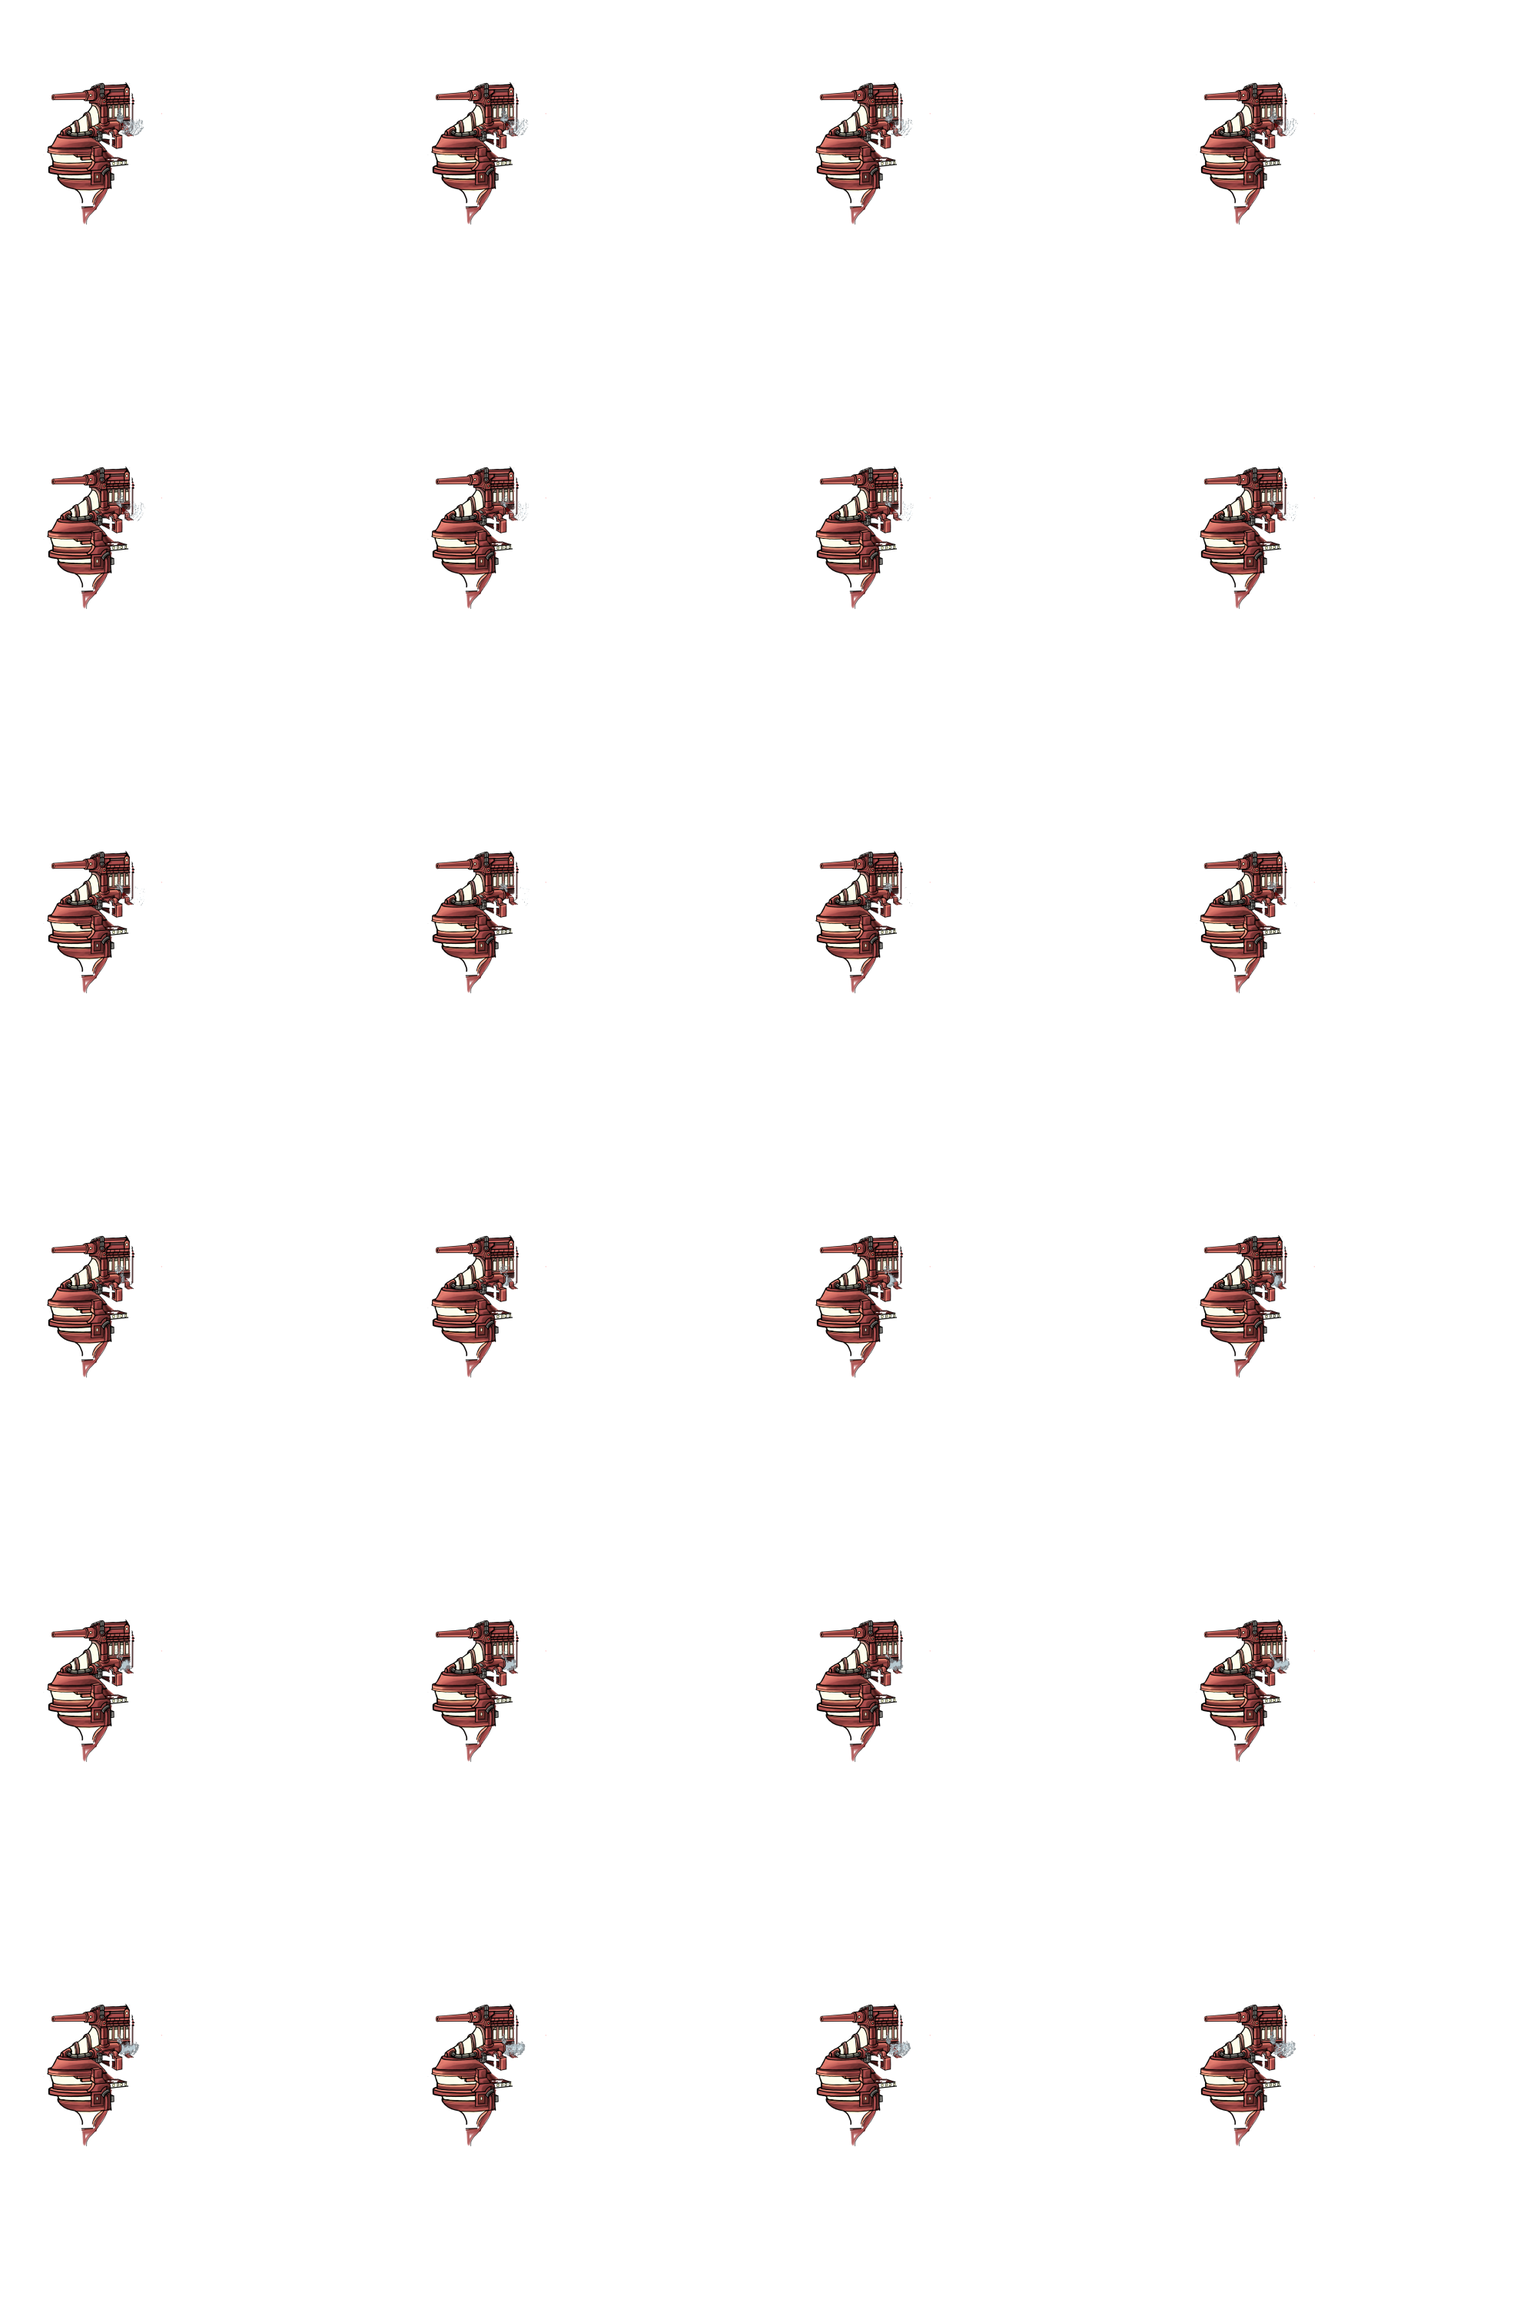
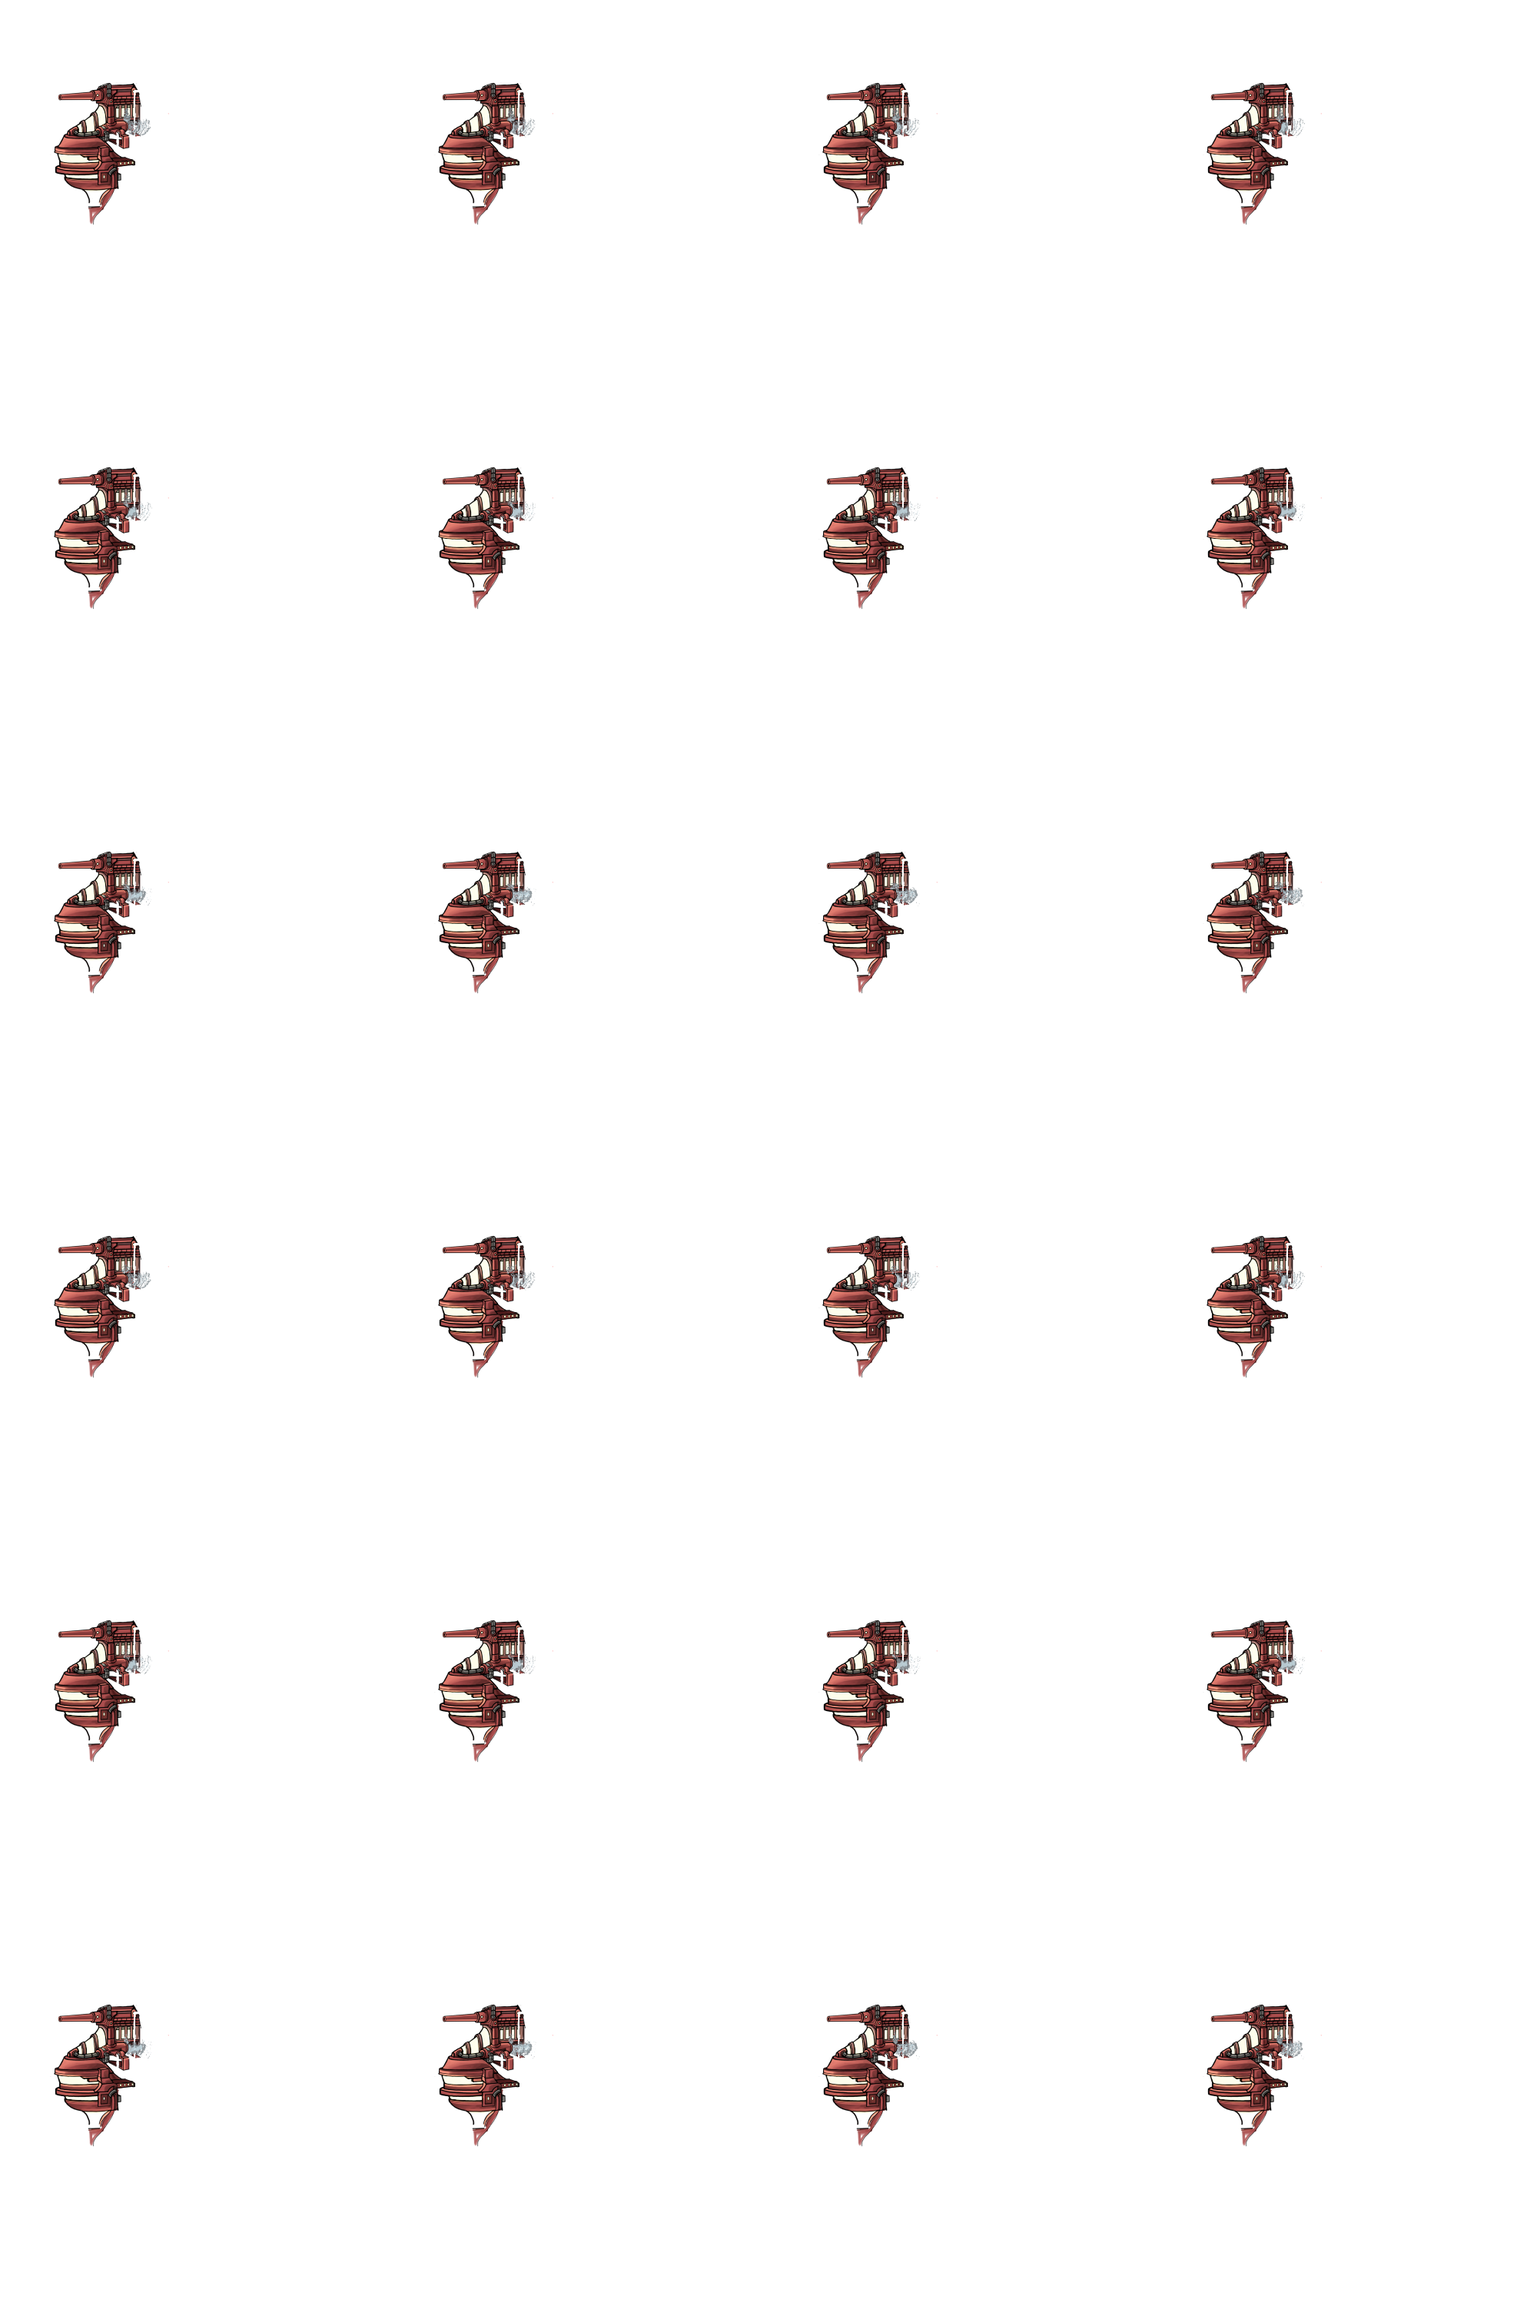
fix webGl

diff --git a/src/app/shared/user/user.service.ts b/src/app/shared/user/user.service.ts
@@ -73,7 +73,6 @@ export class UserService {
           (snapshot: any) => {
             this.FillUpgrade(snapshot);
           });
-
         this.db.object('users/' + auth.uid + '/event').valueChanges().subscribe(
           (snapshot: any) => {
             this.FillEvent(snapshot);
@@ -89,7 +88,7 @@ export class UserService {
   public LogOut() {
     this.userLoad = false;
     this.currentUser = null;
-    this.afAuth.auth.signOut().then(()=>{
+    this.afAuth.auth.signOut().then(() => {
       location.reload();
     });
   }
@@ -143,15 +142,14 @@ export class UserService {
   }
 
   FillSearch(snapshot) {
-
-    let resultTab = new Array<Asteroid>();
+    const resultTab = new Array<Asteroid>();
     if (snapshot.result != 0) {
       for (let i = 0; i < snapshot.result.length; i++) {
         resultTab.push(new Asteroid(snapshot.result[i].capacity, snapshot.result[i].capacity, snapshot.result[i].purity,
           snapshot.result[i].ore, snapshot.result[i].seed, snapshot.result[i].timeToGo));
       }
     }
-    this.currentUser.asteroidSearch = new SearchResult(resultTab, snapshot.timer,snapshot.start);
+    this.currentUser.asteroidSearch = new SearchResult(resultTab, snapshot.timer, snapshot.start);
     this.searchSubject.next(this.currentUser);
     this.incrementCounter();
   }
@@ -160,24 +158,30 @@ export class UserService {
     this.currentUser.event = snapshot;
     this.eventSubject.next(this.currentUser);
   }
-  
+
   FillUpgrade(snapshot) {
-    
-    this.currentUser.upgrades[UpgradeType.storage]=new UserUpgrade(
+
+    this.currentUser.upgrades[UpgradeType.storage] = new UserUpgrade(
       snapshot.storage.lvl,
       snapshot.storage.timer,
       snapshot.storage.start
     );
-    
-    this.currentUser.upgrades[UpgradeType.mineRate]=new UserUpgrade(
+
+    this.currentUser.upgrades[UpgradeType.mineRate] = new UserUpgrade(
       snapshot.mineRate.lvl,
       snapshot.mineRate.timer,
       snapshot.mineRate.start
     );
-    this.currentUser.upgrades[UpgradeType.research]=new UserUpgrade(
+    this.currentUser.upgrades[UpgradeType.research] = new UserUpgrade(
       snapshot.research.lvl,
       snapshot.research.timer,
       snapshot.research.start
+    );
+
+    this.currentUser.upgrades[UpgradeType.engine] = new UserUpgrade(
+      snapshot.engine.lvl,
+      snapshot.engine.timer,
+      snapshot.engine.start
     );
 
     this.currentUser.score = snapshot.score;
@@ -189,7 +193,7 @@ export class UserService {
   incrementCounter() {
     if (!this.userLoad && this.loadedCounter < this.loadedTrigger) {
       this.loadedCounter++;
-      if (this.loadedCounter == this.loadedTrigger) {
+      if (this.loadedCounter === this.loadedTrigger) {
         this.userLoad = true;
       }
     }

diff --git a/src/app/ship/ship-view/ship-view.component.ts b/src/app/ship/ship-view/ship-view.component.ts
@@ -55,11 +55,8 @@ export class ShipViewComponent implements AfterViewInit {
     this.ship.initChest();
     this.clickChest();
 
+    this.initWithTimeUpgrade();
     // init
-    this.ship.autoUpgrade(this.userS.currentUser.upgrades[UpgradeType.storage].lvl, this.ship.stockUpgrade);
-    this.ship.autoUpgrade(this.userS.currentUser.upgrades[UpgradeType.research].lvl, this.ship.radarUpgrade);
-    this.ship.autoUpgrade(this.userS.currentUser.upgrades[UpgradeType.mineRate].lvl, this.ship.droneUpgrade);
-    this.ship.autoUpgrade(this.userS.currentUser.upgrades[UpgradeType.mineRate].lvl + 2, this.ship.smokeRadarUpgrade);
 
     if (this.userS.currentUser.upgrades[UpgradeType.storage].lvl >= 1 && !this.boolShipTourelle) {
       this.ship.iNewTourelle = 4;
@@ -79,7 +76,7 @@ export class ShipViewComponent implements AfterViewInit {
       this.ship.autoUpgrade(this.userS.currentUser.upgrades[UpgradeType.research].lvl, this.ship.radarUpgrade);
       this.ship.autoUpgrade(this.userS.currentUser.upgrades[UpgradeType.mineRate].lvl, this.ship.droneUpgrade);
       this.ship.autoUpgrade(user.upgrades[UpgradeType.mineRate].lvl + 2, this.ship.smokeRadarUpgrade);
-
+      this.ship.autoUpgrade(this.userS.currentUser.upgrades[UpgradeType.engine].lvl, this.ship.reacteurUpgrade);
     this.ship.ship.cacheAsBitmap = false;
 
       if (this.userS.currentUser.upgrades[UpgradeType.storage].lvl >= 1 && !this.boolShipTourelle) {
@@ -98,7 +95,29 @@ export class ShipViewComponent implements AfterViewInit {
   }
 
 
+  initWithTimeUpgrade() {
+    let i = 0;
+    const tabTempUpgrade = new Array<any>();
+    const tabTempUpgradeLvl = new Array<any>();
+    const tempThisUser = this.userS.currentUser.upgrades;
+    tabTempUpgrade.push(this.ship.stockUpgrade);
+    tabTempUpgradeLvl.push(tempThisUser[UpgradeType.storage].lvl);
+    tabTempUpgrade.push(this.ship.radarUpgrade);
+    tabTempUpgradeLvl.push(tempThisUser[UpgradeType.research].lvl);
+    tabTempUpgrade.push(this.ship.droneUpgrade);
+    tabTempUpgradeLvl.push(tempThisUser[UpgradeType.mineRate].lvl);
+    tabTempUpgrade.push(this.ship.smokeRadarUpgrade);
+    tabTempUpgradeLvl.push(tempThisUser[UpgradeType.mineRate].lvl + 2);
+    tabTempUpgrade.push(this.ship.reacteurUpgrade);
+    tabTempUpgradeLvl.push(tempThisUser[UpgradeType.engine].lvl);
 
+    if (i < 4) {
+      setInterval(() => {
+        this.ship.autoUpgrade(tabTempUpgradeLvl[i], tabTempUpgrade[i]);
+        i++;
+      }, 2500);
+    }
+  }
   // initial ship animated Sprite
   initSky(spriteName: string, width: number, height: number, w, h) {
     this.backgroundSky = new PIXI.extras.AnimatedSprite(getFramesFromSpriteSheet(

diff --git a/src/app/ship/ship-view/ship.ts b/src/app/ship/ship-view/ship.ts
@@ -9,7 +9,7 @@ class UpgradeShip {
     tabAnimation: PIXI.extras.AnimatedSprite[];
 
     constructor(lvl: number, tabAnimation, posx: number, posy: number) {
-        this.tabLevel = [10, 20, 40, 65, 100, 150];
+        this.tabLevel = [10, 20, 40, 65, 100, 150, 170, 190, 200];
         this.tabAnimation = tabAnimation;
         this.posX = posx;
         this.posY = posy;
@@ -64,7 +64,7 @@ export class Ship {
     currentLevelRadar: number;
     smokeRadarUpgrade: UpgradeShip;
 
-    reacteur: UpgradeShip;
+    reacteurUpgrade: UpgradeShip;
     reacteurLvl: number;
 
     stockUpgrade: UpgradeShip;
@@ -102,8 +102,7 @@ export class Ship {
         this.smokeRadarUpgrade = this.initTabSprite(7, 'smoke_', this.currentLevelRadar, 500, 500, -20, 0, true);
 
         this.reacteurLvl = 0;
-        this.reacteur = this.initTabSprite(7, 'shipReacteur_', this.reacteurLvl, 500, 500, 30, 0, false);
-
+        this.reacteurUpgrade = this.initTabSprite(7, 'shipEngine_', this.reacteurLvl, 500, 500, 30, 0, false);
         this.currentLevelDrone = 0;
         this.droneUpgrade = this.initTabSprite(5, 'droneUpdate_', this.currentLevelDrone, 500, 500, 30, 0, true);
 
@@ -113,6 +112,7 @@ export class Ship {
         this.transformShipY = this.ship.y;
         this.transformShipX = this.ship.x;
 
+        // Text new chest
         this.spriteTextOpenChest = PIXI.Sprite.fromImage('../../assets/capsule/youHaveNew.png');
         this.spriteTextOpenChest.visible = false;
         this.spriteTextOpenChest.anchor.set(0.5);
@@ -138,15 +138,14 @@ export class Ship {
 
                 this.ship.y = this.transformShipY + Math.sin(this.deltaSumShip) * 17;
                 this.ship.x = this.transformShipX + Math.cos(this.deltaSumShip) * 5;
-                this.initMoveXY(this.reacteur, 30, 20, this.deltaSum);
-
+                this.initMoveXY(this.reacteurUpgrade, 30, 20, this.deltaSum);
 
                 if (this.boolParentChest) {
                     if ( this.spriteChestParent.y <= 151 ) {
                         this.boolParentChest = false;
                         this.spriteTextOpenChest.visible = false;
                     }
-                    this.spriteTextOpenChest.alpha -= 0.007; 
+                    this.spriteTextOpenChest.alpha -= 0.007;
                     this.spriteChestParent.y = 300 - deltaChest;
                     deltaChest += 1;
                 } else {

diff --git a/src/app/ship/upgrade-list/upgrade.service.ts b/src/app/ship/upgrade-list/upgrade.service.ts
@@ -7,6 +7,7 @@ import 'rxjs/add/operator/take';
 import { MineRate } from '../upgrade-class/mineRate';
 import { Research } from '../upgrade-class/research';
 import { Storage } from '../upgrade-class/storage';
+import { Engine } from '../upgrade-class/engine';
 
 @Injectable()
 export class UpgradeService {
@@ -15,15 +16,18 @@ export class UpgradeService {
   storage: Storage[];
   mineRate: MineRate[];
   research: Research[];
+  engine: Engine[];
 
   storageLoad: boolean = false;
   mineRateLoad: boolean = false;
   researchLoaded: boolean = false;
+  engineLoad: boolean = false;
 
   constructor(db: AngularFireDatabase) {
     this.storage = new Array();
     this.mineRate = new Array();
     this.research = new Array();
+    this.engine = new Array();
 
     this.db = db;
     this.db.object('storage').valueChanges().take(1).subscribe(
@@ -37,6 +41,10 @@ export class UpgradeService {
     this.db.object('research').valueChanges().take(1).subscribe(
       (snapshot: any) => {
         this.FillResearch(snapshot);
+      });
+    this.db.object('engine').valueChanges().take(1).subscribe(
+      (snapshot: any) => {
+        this.FillEngine(snapshot);
       });
   }
 
@@ -65,5 +73,12 @@ export class UpgradeService {
     }
     this.researchLoaded = true;
   }
-}
 
+  // create the tab of engine
+  FillEngine(snapshot) {
+    for (let i = 0; i < snapshot.length; i++) {
+      this.engine.push(new Engine(i, snapshot[i].cost, snapshot[i].time, snapshot[i].speed));
+    }
+    this.engineLoad = true;
+  }
+}

diff --git a/src/app/app.component.html b/src/app/app.component.html
@@ -3,7 +3,7 @@
 </div>
 
 <div *ngIf="upgradeS && userS && userS.userLoad && upgradeS.storageLoad && upgradeS.mineRateLoad
- && upgradeS.researchLoaded && marketS && marketS.marketLoad && loadAnimation.boolFinishLoad
+ && upgradeS.researchLoaded && upgradeS.engineLoad && marketS && marketS.marketLoad && loadAnimation.boolFinishLoad
  && oreInfoS && oreInfoS.oreInfoLoaded">
     <header>
         <app-topbar></app-topbar>
@@ -11,7 +11,7 @@
         
   <div *ngIf="loadingImage">
       <img class="image_loading" src="../assets/space2.png" />                
-      <img class="gif_loading" src="../assets/upgrade-icons/icon_mineRate.gif" />      
+      <img class="gif_loading" src="../assets/ecran chargement.gif" />      
   </div>
 
   <div class="game-content">

diff --git a/src/app/ship/upgrade-list/upgrade-list.component.ts b/src/app/ship/upgrade-list/upgrade-list.component.ts
@@ -30,6 +30,7 @@ export class UpgradeViewComponent implements AfterViewInit {
         this.allUpgrades[UpgradeType.mineRate] = new UpgradeLvls(UpgradeType.mineRate, upgradeS.mineRate);
         this.allUpgrades[UpgradeType.research] = new UpgradeLvls(UpgradeType.research, upgradeS.research);
         this.allUpgrades[UpgradeType.storage] = new UpgradeLvls(UpgradeType.storage, upgradeS.storage);
+        this.allUpgrades[UpgradeType.engine] = new UpgradeLvls(UpgradeType.engine, upgradeS.engine);
     }
 
     ngAfterViewInit() {

diff --git a/src/app/ship/upgrade-list/upgrade-list.component.html b/src/app/ship/upgrade-list/upgrade-list.component.html
@@ -1,6 +1,7 @@
 <app-upgrade-view [UpgradeLvls]=allUpgrades[UpgradeType.storage] ></app-upgrade-view>
 <app-upgrade-view [UpgradeLvls]=allUpgrades[UpgradeType.mineRate] ></app-upgrade-view>
 <app-upgrade-view [UpgradeLvls]=allUpgrades[UpgradeType.research] ></app-upgrade-view>
+<app-upgrade-view [UpgradeLvls]=allUpgrades[UpgradeType.engine] ></app-upgrade-view>
 
 <!--<div class="upgrade row justify-between">
     <img class="upgrade-icon" src="../../../assets/upgrade-icons/icone_stockage.png"/>

diff --git a/src/app/loadAnimation.ts b/src/app/loadAnimation.ts
@@ -40,7 +40,7 @@ export class LoadAnimation {
 
         // Stock animation
         for (let i = 1; i < 8; i++) {
-            this.addKeySpriteName('shipReacteur_' + i, './assets/upgrade/shipStock_' + i + '.png');
+            this.addKeySpriteName('shipEngine_' + i, './assets/upgrade/engine/engine_' + i + '.png');
         }
 
         // Radar animation

diff --git a/src/app/ship/upgrade-class/engine.ts b/src/app/ship/upgrade-class/engine.ts
@@ -1,0 +1,11 @@
+import { Upgrade } from './upgrade';
+
+export class Engine extends Upgrade {
+    public speed: number;
+
+    constructor(level: number, cost: number, time: number, _speed: number) {
+        super(level, cost, time, 'engine', 'Engine power');
+        this.cara['speed'] = _speed;
+        this.speed = _speed;
+    }
+}

diff --git a/src/app/shared/user/user.ts b/src/app/shared/user/user.ts
@@ -22,8 +22,6 @@ export class User {
     public email: string;
     public name: string;
 
-    public timerRate: number;
-    public timerStock: number;
     public currentMineRate: number;
 
     public asteroid: Asteroid;

diff --git a/src/app/app.component.ts b/src/app/app.component.ts
@@ -30,7 +30,7 @@ export class AppComponent {
     if (this.loadingImage) {
       setInterval(() => {
         this.loadingImage = false;
-      }, 2000 * 10);
+      }, 10000);
     }
   }
 

diff --git a/src/app/ship/upgrade-class/upgrade.ts b/src/app/ship/upgrade-class/upgrade.ts
@@ -18,8 +18,9 @@ export class Upgrade {
 
 }
 
-export enum UpgradeType{
+export enum UpgradeType {
     mineRate,
     research,
-    storage
+    storage,
+    engine
 }
